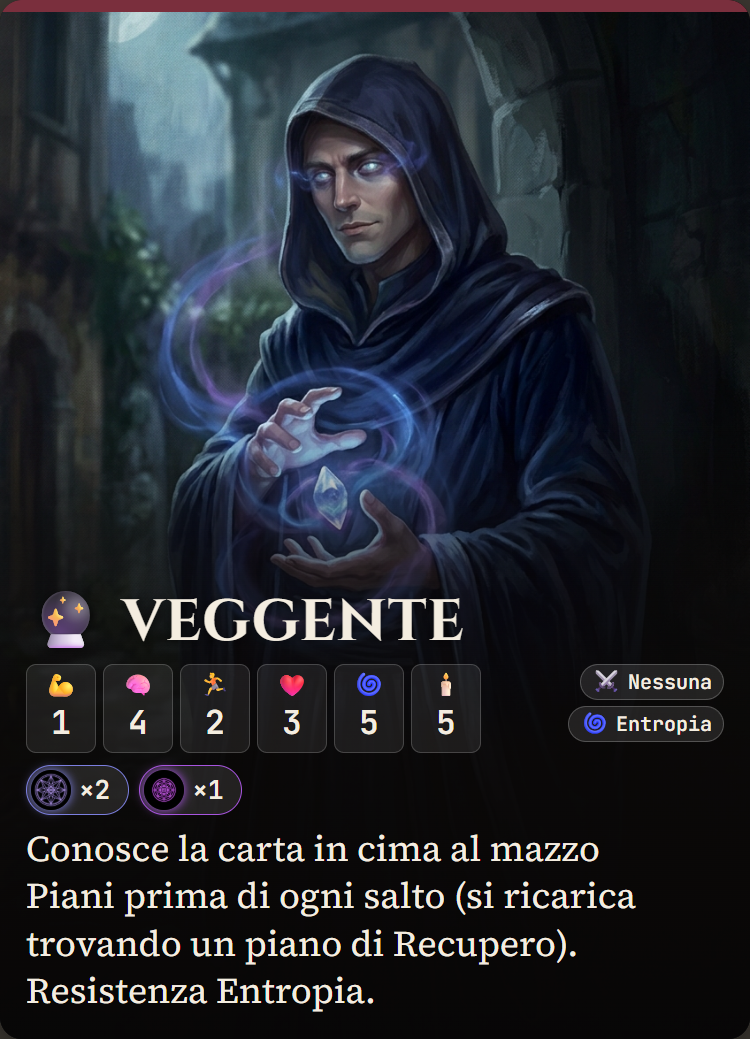
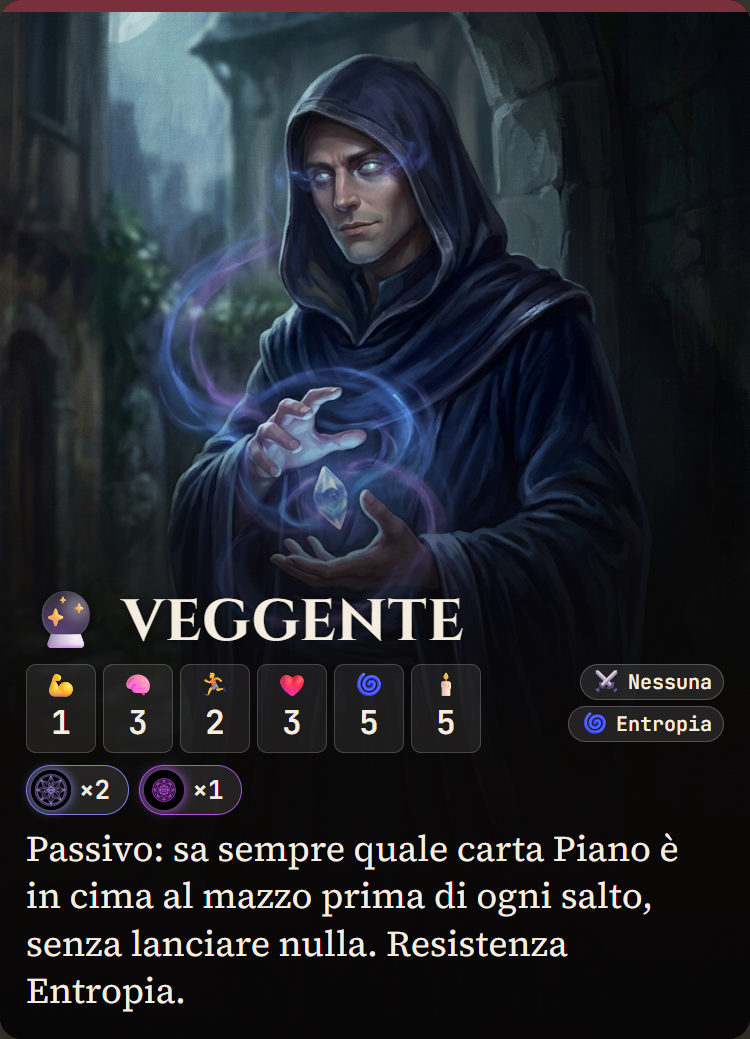
Veggente: Intelletto 3 e abilita passiva (sa sempre la carta in cima al mazzo Piani prima di ogni salto)

Changed region(s): [[0.0307, 0.8008, 0.92, 0.9856], [0.1533, 0.6776, 0.2147, 0.7084]]

diff --git a/gioco.html b/gioco.html
@@ -476,8 +476,8 @@ const CLASSES = {
     desc:"Furia brutale: un 6 naturale in qualsiasi Contesa infligge 2 danni invece di 1. A 0 PV non sviene, resta attivo."},
   ladro:{name:"Ladro",icon:"🗡",for:2,int:2,des:4,pv:3,san:5,anima:5,affinity:{},reroll:1,rerollLvl:0,weapons:"light",resistance:[],stealth:true,
     desc:"Furtività: può tentare di restare nascosto da un Incontro (check Destrezza). Classe ibrida: 1 reroll fisso."},
-  veggente:{name:"Veggente",icon:"🔮",for:1,int:4,des:2,pv:3,san:5,anima:5,affinity:{divinazione:2,essenza:1},reroll:0,rerollLvl:0,weapons:"none",resistance:["entropia"],stealth:false,special:"vista_piani",
-    desc:"Conosce la carta in cima al mazzo Piani prima di ogni salto (si ricarica trovando un piano di Recupero). Resistenza Entropia."},
+  veggente:{name:"Veggente",icon:"🔮",for:1,int:3,des:2,pv:3,san:5,anima:5,affinity:{divinazione:2,essenza:1},reroll:0,rerollLvl:0,weapons:"none",resistance:["entropia"],stealth:false,special:"vista_piani",
+    desc:"Passivo: sa sempre quale carta Piano è in cima al mazzo prima di ogni salto, senza lanciare nulla. Resistenza Entropia."},
   mago:{name:"Mago",icon:"🪄",for:1,int:4,des:2,pv:3,san:5,anima:5,affinity:{essenza:3},reroll:0,rerollLvl:0,weapons:"none",resistance:["eterei"],special:"dardo",
     desc:"Dardo Incantato: una volta per carica, 2 danni sicuri in una Contesa di Forza/Intelletto/Destrezza (ricarica a Recupero). Resistenza Eterei."},
   chierico:{name:"Chierico",icon:"🙏",for:2,int:3,des:2,pv:4,san:5,anima:6,affinity:{flusso:3},reroll:0,rerollLvl:0,weapons:"light",resistance:["armonia"],special:"cura_diretta",
@@ -500,12 +500,13 @@ const CLASSES = {
 // cls.special non è sempre un'abilità a carica attivabile a piacere: furia (Barbaro) e
 // resurrezione (Negromante) sono automatiche (vedi useDamage/checkRoll più sotto),
 // paladino_extra è passiva alla progressione di livello (vedi checkLevelUp/openLevelUpModal).
-// Solo queste sei sono davvero "usa l'abilità, poi si scarica finché non trovi un Recupero":
+// Solo queste cinque sono davvero "usa l'abilità, poi si scarica finché non trovi un Recupero"
+// (il Veggente no: la sua vista dei Piani è passiva, vedi startJump):
 // da qui la distinzione, altrimenti Barbaro/Negromante/Paladino mostrerebbero un pulsante
 // "Usa abilità di classe" che non fa nulla di concreto (finisce nel case di default di
 // useClassSpecial), e potrebbero anche "perdere" quell'abilità alla Voragine del Vuoto senza
 // che perderla abbia un vero effetto meccanico.
-const ACTIVE_SPECIALS = new Set(['dardo','forma_selvatica','evocazione','resistenza_universale','vista_piani','cura_diretta']);
+const ACTIVE_SPECIALS = new Set(['dardo','forma_selvatica','evocazione','resistenza_universale','cura_diretta']);
 
 /* ---------------- FAMILIES ---------------- */
 const FAMILIES = {
@@ -1986,18 +1987,24 @@ function openPrePlaneProtectionModal(plane, jumpers){
 function startJump(){
   // "Party al completo, tutti per la manina": SOLO se il gruppo che salta comprende
   // tutti i personaggi attivi, l'unità del gruppo rivela la carta Piano in cima al
-  // mazzo prima di saltare. Un sottogruppo o un solitario saltano alla cieca (a meno
-  // che non abbiano un Veggente, la cui abilità di classe funziona comunque a parte).
+  // mazzo prima di saltare. Un sottogruppo o un solitario saltano alla cieca, a meno che
+  // non ci sia un Veggente: la sua abilità è PASSIVA, sa sempre qual è la carta in cima
+  // (qualunque gruppo o solitario lo comprenda), senza lanciare nulla.
+  const seer = activeChars().find(c=>c.cls==='veggente');
   const isFullParty = activeChars().length>0 && activeChars().length===allActiveChars().length;
-  if(!isFullParty){ doJump(); return; }
+  if(!isFullParty && !seer){ doJump(); return; }
   refillMazzoPianiIfNeeded(); // altrimenti l'anteprima può mostrare una carta che poi il salto cambia
   skipTerrenoIfFlagged();
   const nextId = state.mazzoPiani[0];
   const isPT = nextId==='__PT__';
   const nextPlane = isPT ? null : PIANI_BY_ID[nextId];
   const label = isPT ? 'Una destinazione leggendaria del Piano Terreno' : (nextPlane?.name || '?');
-  openModal(`<h3>🤝 Il gruppo si tiene per mano</h3>
-    <p>Uniti, vedete la carta in cima al mazzo Piani prima di saltare — resta quella la destinazione, non è una scelta:</p>
+  const intro = seer
+    ? `<h3>🔮 ${escapeHtml(seer.name)} conosce la strada</h3>
+    <p>Il Veggente sa sempre quale carta è in cima al mazzo Piani — resta quella la destinazione, non è una scelta:</p>`
+    : `<h3>🤝 Il gruppo si tiene per mano</h3>
+    <p>Uniti, vedete la carta in cima al mazzo Piani prima di saltare — resta quella la destinazione, non è una scelta:</p>`;
+  openModal(intro + `
     ${nextPlane ? planeHeroArt(nextPlane) : ''}
     <p style="font-size:1.3rem;font-family:'Cinzel',serif;text-align:center;margin:1rem 0;">${escapeHtml(label)}</p>
     <div class="row mt1"><button class="primary" id="btnConfirmJump">🌀 Salta</button></div>`);
@@ -4456,7 +4463,6 @@ function useClassSpecial(c){
       c.charges.special=false; c.monkShieldReady=true;
       logMsg(`🧘 ${c.name} è pronto ad annullare del tutto il prossimo danno subito, su qualunque caratteristica.`);
       break;
-    case 'vista_piani': logMsg(`🔮 ${c.name} conosce già la carta in cima al mazzo Piani.`); showPeekModal({type:'peek',n:1}, false, render); break;
     case 'cura_diretta':
       c.charges.special=false;
       openCuraDirettaModal(c);

diff --git a/cardgen/CARTE_DA_RISTAMPARE.md b/cardgen/CARTE_DA_RISTAMPARE.md
@@ -20,6 +20,7 @@ sé stesso, vedi il bug del 24/09 sotto). Il risultato va poi copiato su `assets
 |---|---|---|---|
 | 2026-10-08 | Bacchetta del Rinvio (Oggetto oneshot, `o_bacchettarinvio`) | Testo | Non è più "come la Furtività" (una sola persona nascosta): annulla l'Incontro ostile per tutto il gruppo presente, senza rischio né ricompensa, anche contro non-morti e demoni. Rigenerata da `assets/cards_raw/` con `render-oggetti.js`, copiata su `assets/cards/o_bacchettarinvio.png`. |
 | 2026-10-08 | L'Antro della Creatura (Piano Terreno, Finale B, `antro_creatura`) | Testo | La caratteristica dello scontro contro il Drago Antico non è più casuale (d6: 1-2 Forza, 3-4 Intelletto, 5-6 Destrezza) ma a scelta del gruppo fra Forza, Intelletto e Destrezza. Rigenerata da `assets/cards_raw/` con `render-piano-terreno.js` (formato orizzontale), copiata su `assets/cards/antro_creatura.png`. |
+| 2026-10-09 | Veggente (Classe, `veggente`) | Testo + Statistica | Intelletto da 4 a 3 (compensa una capacità molto forte: conosce sempre la carta in cima al mazzo Piani, sia come destinazione sia come uscita). L'abilità non è più "da lanciare" e senza ricarica: è passiva, la sa sempre prima di ogni salto. Rigenerata da `assets/cards_raw/veggente.jpg` con `render-classes.js`, copiata su `assets/cards/veggente.png`; il promemoria (retro, tabella classi) si aggiorna da solo da `classes-data.json`. |
 | 2026-10-08 | Pedine: 5 abilità di classe (40mm, nuove) + 15 risorsa planare + 15 reroll + 20 segnalini potenziamento/depotenziamento | Nuovo componente | Pedina abilità a due facce con scritta: fronte "ABILITÀ PRONTA" (moneta che brilla), retro "ABILITÀ USATA" (moneta spenta); il doppio delle pedine risorsa planare (40mm contro 20mm). Arte dell'utente in `assets/ui/pedina_abilita_fronte.jpg` / `_retro.jpg`. Foglio unico A4 fronte/retro con tutte le pedine (retro specchiato): `node render-pedine.js abilita` -> `pedine_abilita_fronte.pdf` / `_retro.pdf`. Da stampare insieme alla stampa patch delle carte. |
 
 Da verificare: lo Spettro del Tempo (`en_spettro`) e le altre carte con danno passante hanno già nel file "oltre ai PV, anche -1 temporaneo…" dal 2026-10-05; se la copia stampata non riporta "oltre ai PV" è una stampa vecchia e va rifatta.
